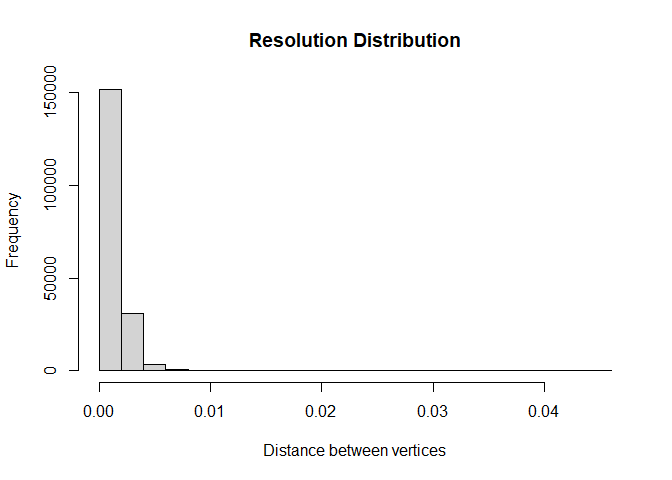
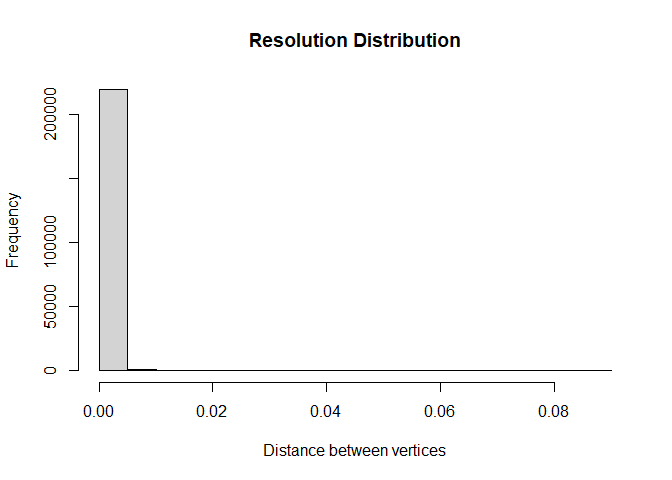
update knit file

diff --git a/code/NSYSU_SfM_workshop.md b/code/NSYSU_SfM_workshop.md
@@ -26,7 +26,7 @@ library(Rvcg)
 mesh <- vcgPlyRead("data/Goose_S1_cleaned.ply")
 ```
 
-    ## Removed 2 duplicate 3168 unreferenced vertices and 6 duplicate faces
+    ## Removed 3 duplicate 1 unreferenced vertices and 0 duplicate faces
 
 ## 檢查網格 / Checking the Mesh
 
@@ -75,9 +75,9 @@ summary(resvec)
 ```
 
     ##      Min.   1st Qu.    Median      Mean   3rd Qu.      Max. 
-    ## 1.857e-06 1.258e-03 1.505e-03 1.703e-03 1.858e-03 4.430e-02
+    ## 4.684e-06 1.187e-03 1.407e-03 1.528e-03 1.700e-03 8.666e-02
 
-\$1 **何時需要均勻重網格？**
+**何時需要均勻重網格？**
 當解析度分佈非常寬（例如直方圖有長尾或多峰），表示網格上有極大或極小的頂點間距，這會影響後續的複雜度指標計算。此時建議進行均勻重網格，以獲得一致的解析度。相反地，如果直方圖大部分值集中在單一窄範圍，分佈均勻，則無需重新網格。
 **When to remesh?** If the resolution histogram is very broad (e.g. long
 tail or multimodal), indicating some vertex distances are much larger or
@@ -87,32 +87,224 @@ narrow range, the mesh is already uniform and no remeshing is needed.
 
 ``` r
 # 均勻重網格 / Uniformly remesh mesh
-mcap_uniform <- Rvcg::vcgUniformRemesh(mesh, silent = TRUE, multiSample = TRUE, voxelSize = min(resvec), mergeClost = TRUE)
+mesh_uniform <- Rvcg::vcgUniformRemesh(mesh, silent = TRUE, multiSample = TRUE, voxelSize = median(resvec), mergeClost = TRUE)
+
+Rvcg::vcgMeshres(mesh_uniform)[[1]]
 ```
 
-    ## Error: vector::_M_default_append
-
-``` r
-Rvcg::vcgMeshres(mcap_uniform)[[1]]
-```
-
-    ## Error: object 'mcap_uniform' not found
+    ## [1] 0.001420853
 
 ``` r
 # 驗證重網格後解析度 / Check resolution of the remeshed object
-new_res <- vcgMeshres(mcap_uniform)[[2]]
-```
-
-    ## Error: object 'mcap_uniform' not found
-
-``` r
+new_res <- vcgMeshres(mesh_uniform)[[2]]
 hist(new_res, main = "Resolution Distribution", xlab = "Distance between vertices")
 ```
 
-    ## Error: object 'new_res' not found
+![](NSYSU_SfM_workshop_files/figure-gfm/remesh-1.png)<!-- -->
 
 ``` r
 summary(new_res)
 ```
 
-    ## Error: object 'new_res' not found
+    ##      Min.   1st Qu.    Median      Mean   3rd Qu.      Max. 
+    ## 0.0003464 0.0011435 0.0014429 0.0014209 0.0017290 0.0028366
+
+## 複雜度指標：Rugosity (R), Fractal Dimension (D), Height Range (H)
+
+### 分形維度 / Fractal Dimension
+
+**中文說明**：使用 `cubes` 方法計算 mesh 的分形維度。 **English
+Explanation**: Compute the fractal dimension of the mesh using the
+`cubes` method.
+
+``` r
+# 分形維度計算 / Calculate fractal dimension
+fd_result <- fd(
+  mesh_uniform,
+  method = "cubes",
+  plot = TRUE,
+  diagnose = TRUE
+)
+```
+
+    ## lvec is set to c(0.002, 0.004, 0.008, 0.017, 0.033, 0.066, 0.133, 0.265).
+
+![](NSYSU_SfM_workshop_files/figure-gfm/fractal-dimension-1.png)<!-- -->![](NSYSU_SfM_workshop_files/figure-gfm/fractal-dimension-2.png)<!-- -->
+
+``` r
+# 提取 D 值 / Extract fractal dimension
+fd_result$D
+```
+
+    ## [1] 2.135587
+
+### Rugosity 及高度範圍 / Rugosity and Height Range
+
+``` r
+# Rugosity 計算 / Compute rugosity
+rugosity_value <- rg(mesh_uniform)
+```
+
+    ## L0 is set to mesh resolution (0.00142085256201945)
+
+``` r
+print(rugosity_value)
+```
+
+    ## [1] 4.239207
+
+``` r
+# 計算高度範圍 / Compute height range
+height_range <- hr(mesh_uniform)
+print(height_range)
+```
+
+    ## [1] 0.2637615
+
+## 平面與表面積 / Planar and Surface Area
+
+``` r
+# 平面表面積 / Planar surface area
+planar_area <- planar(mesh)
+```
+
+    ## L0 is set to mesh resolution (0.00152754054666314)
+
+``` r
+print(planar_area)
+```
+
+    ## [1] 0.03242759
+
+``` r
+# 總表面積 / Total surface area
+surface_area_value <- surface_area(mesh)
+print(surface_area_value)
+```
+
+    ## [1] 0.1404026
+
+## 形狀指標 / Shape Metrics
+
+**指標定義與生態意義 / Definitions and Ecological Significance**
+
+- **Convexity（凸度）**
+
+  - **定義 / Definition**：mesh 表面積與其 convex hull
+    表面積之比；值越接近 1 表示形狀越凸。
+  - **生態意義 / Ecological
+    Significance**：低凸度（更多凹陷）提供微棲位與附著點，增加物種豐富度與遮蔽；高凸度則在強流或侵蝕環境下更具結構穩定性。
+  - **English**: Convexity is the ratio of the mesh surface area to the
+    surface area of its convex hull; values close to 1 indicate a more
+    convex shape. Low convexity reflects more indentations and niches,
+    enhancing microhabitats and species diversity, while high convexity
+    confers greater structural stability in high-flow or erosive
+    conditions.
+
+- **Packing（包裝度）**
+
+  - **定義 / Definition**：mesh 體積與其 convex hull 體積之比；介於 0 到
+    1，越高表示結構越密實。
+  - **生態意義 / Ecological
+    Significance**：高包裝度降低水流穿透與養分交換，但增加機械強度；低包裝度則有利於養分與光線滲透。
+  - **English**: Packing is the ratio of the mesh volume to the volume
+    of its convex hull, ranging from 0 to 1; higher values indicate a
+    more compact structure. High packing density restricts fluid flow
+    and nutrient exchange but enhances mechanical strength, while lower
+    packing facilitates nutrient and light penetration.
+
+- **Sphericity（球形度）**
+
+  - **定義 / Definition**：Ψ = (π<sup>(1/3)\*(6V)</sup>(2/3)) / A，其中
+    V 為體積，A 為表面積；完全球體時 Ψ=1。
+  - **生態意義 / Ecological
+    Significance**：高球形度降低表面積對體積比率，減少擴散損失；低球形度（如扁平或分枝形態）增大表面積，有利於光合作用與養分吸收，但在強流中易受損。
+  - **English**: Sphericity measures how closely an object’s shape
+    approaches that of a perfect sphere, calculated as Ψ =
+    (π<sup>(1/3)\*(6V)</sup>(2/3)) / A. A value of 1 denotes a perfect
+    sphere. Higher sphericity minimizes surface area relative to volume,
+    reducing diffusive loss, whereas lower sphericity increases surface
+    area beneficial for photosynthesis and nutrient uptake but may be
+    more vulnerable in high-flow environments.
+
+- **SMA（面積二階矩）**
+
+  - **定義 / Definition**：SMA = ∬ r^2 dA，其中 r
+    為表面元素到重心的距離。
+  - **生態意義 / Ecological
+    Significance**：反映結構對扭轉或剪切力的抗性；SMA
+    越大表示表面質量分布更分散，影響流體動力穩定性。
+  - **English**: Second Moment of Area (SMA) is defined as SMA = ∬ r^2
+    dA, where r is the distance from surface elements to the centroid.
+    It reflects resistance to torsional or shear forces; higher SMA
+    indicates more distributed surface mass, affecting hydrodynamic
+    stability.
+
+- **SMV（體積二階矩）**
+
+  - **定義 / Definition**：SMV = ∭ r^2 dV，其中 r
+    為體積元素到重心的距離。
+  - **生態意義 / Ecological
+    Significance**：度量質量分布對整體穩定性的影響；SMV
+    越大表示質量分布更分散，可能更能抵抗翻覆。
+  - **English**: Second Moment of Volume (SMV) is defined as SMV = ∭ r^2
+    dV, where r is the distance from volume elements to the centroid. It
+    quantifies how mass distribution influences overall stability; a
+    higher SMV indicates more dispersed mass distribution, potentially
+    resisting overturning under dynamic forces.
+
+- **CSF（機械形狀因子）**
+
+  - **定義 /
+    Definition**：結合表面積與曲率以度量對機械應力的敏感性，具體公式依實作而異。
+  - **生態意義 / Ecological Significance**：高 CSF
+    表示應力集中，易因撞擊或剪切而斷裂；低 CSF
+    則能分散應力，更耐受機械擾動。
+  - **English**: Mechanical Shape Factor (CSF) integrates surface area
+    and curvature to uniformly measure sensitivity to mechanical stress;
+    exact formula depends on implementation. Higher CSF indicates stress
+    concentration and susceptibility to fracture, while lower CSF
+    disperses stress, enhancing resistance to mechanical disturbances.
+
+``` r
+convexity_val <- convexity(mesh)
+packing_val  <- packing(mesh)
+sphericity_val <- sphericity(mesh)
+sma_val <- sma(mesh)
+smv_val <- smv(mesh)
+csf_val <- csf(mesh)
+```
+
+    ## z_min set to -0.609558761119843
+
+    ## resolution set to 0.00152754054666314
+
+``` r
+# 顯示結果 / Print results
+list(
+  convexity = convexity_val,
+  packing = packing_val,
+  sphericity = sphericity_val,
+  second_moment_area = sma_val,
+  second_moment_volume = smv_val,
+  mechanical_shape_factor = csf_val
+)
+```
+
+    ## $convexity
+    ## [1] 0.7513123
+    ## 
+    ## $packing
+    ## [1] 0.9912097
+    ## 
+    ## $sphericity
+    ## [1] 0.6933963
+    ## 
+    ## $second_moment_area
+    ## [1] 0.01319239
+    ## 
+    ## $second_moment_volume
+    ## [1] 0.0001715002
+    ## 
+    ## $mechanical_shape_factor
+    ## [1] 3235.181
